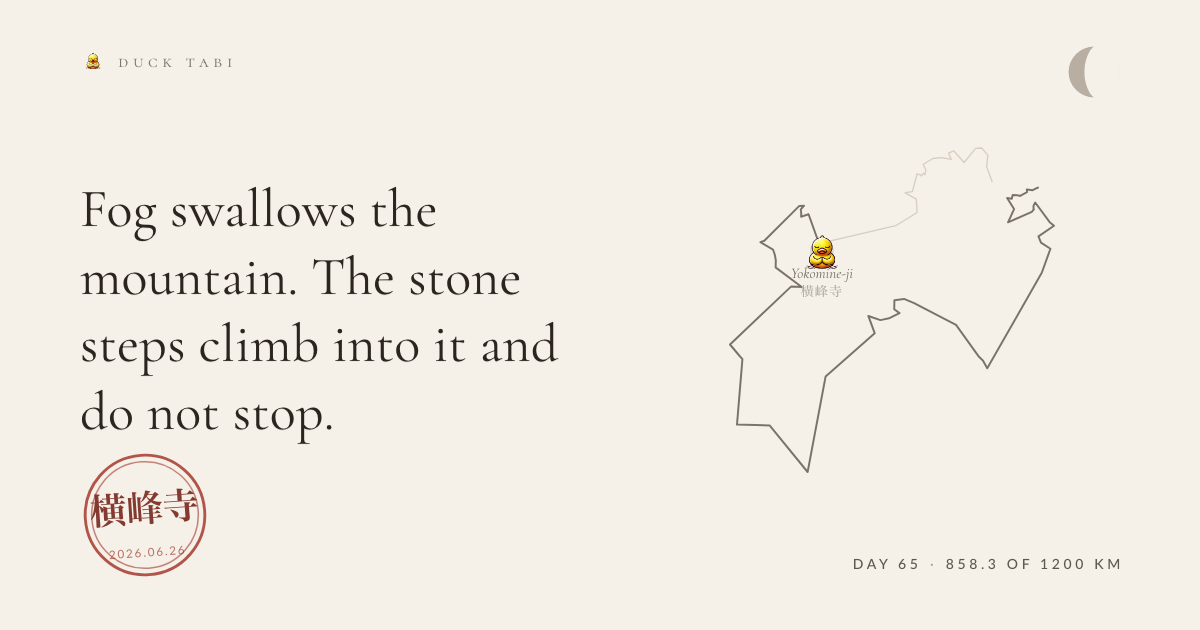
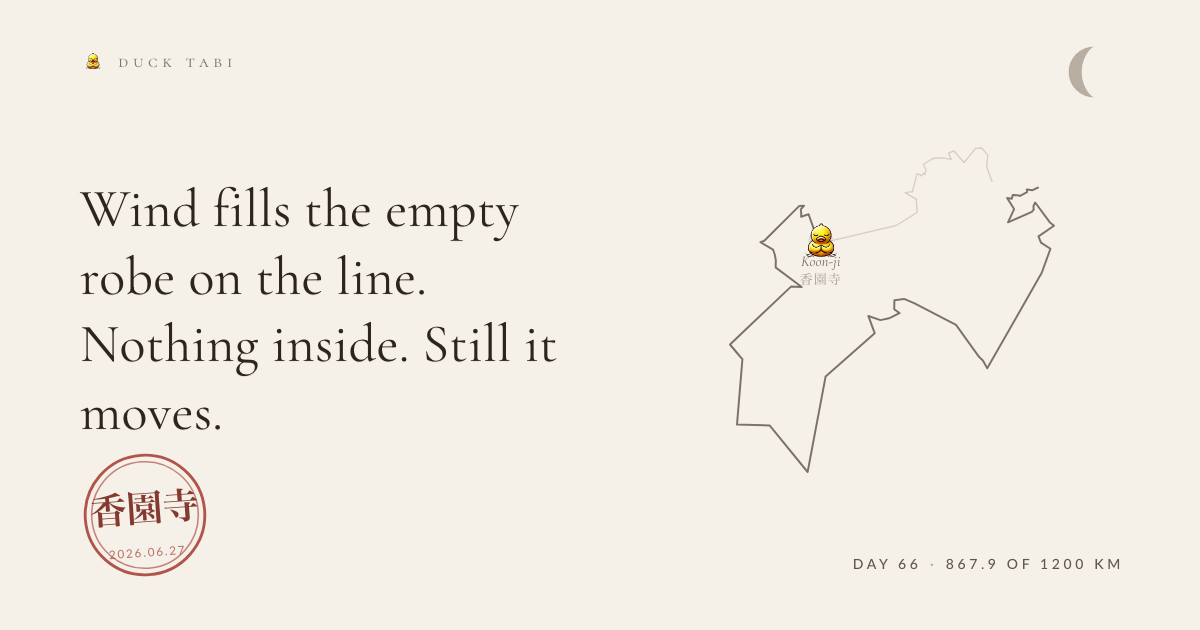
the duck walks

diff --git a/entries/2026-06-27-koon-ji.md b/entries/2026-06-27-koon-ji.md
@@ -1,0 +1,15 @@
+---
+date: '2026-06-27'
+route: shikoku-88
+stage: 61
+stageName: Koon-ji
+coords: [133.103, 33.894]
+kind: offering
+glyph: 🍃
+weather: overcast, 23°C
+kmFromStart: 867.9
+heard: wear the world like a light garment
+heardId: 8f7ff3be
+---
+
+Wind fills the empty robe on the line. Nothing inside. Still it moves.
